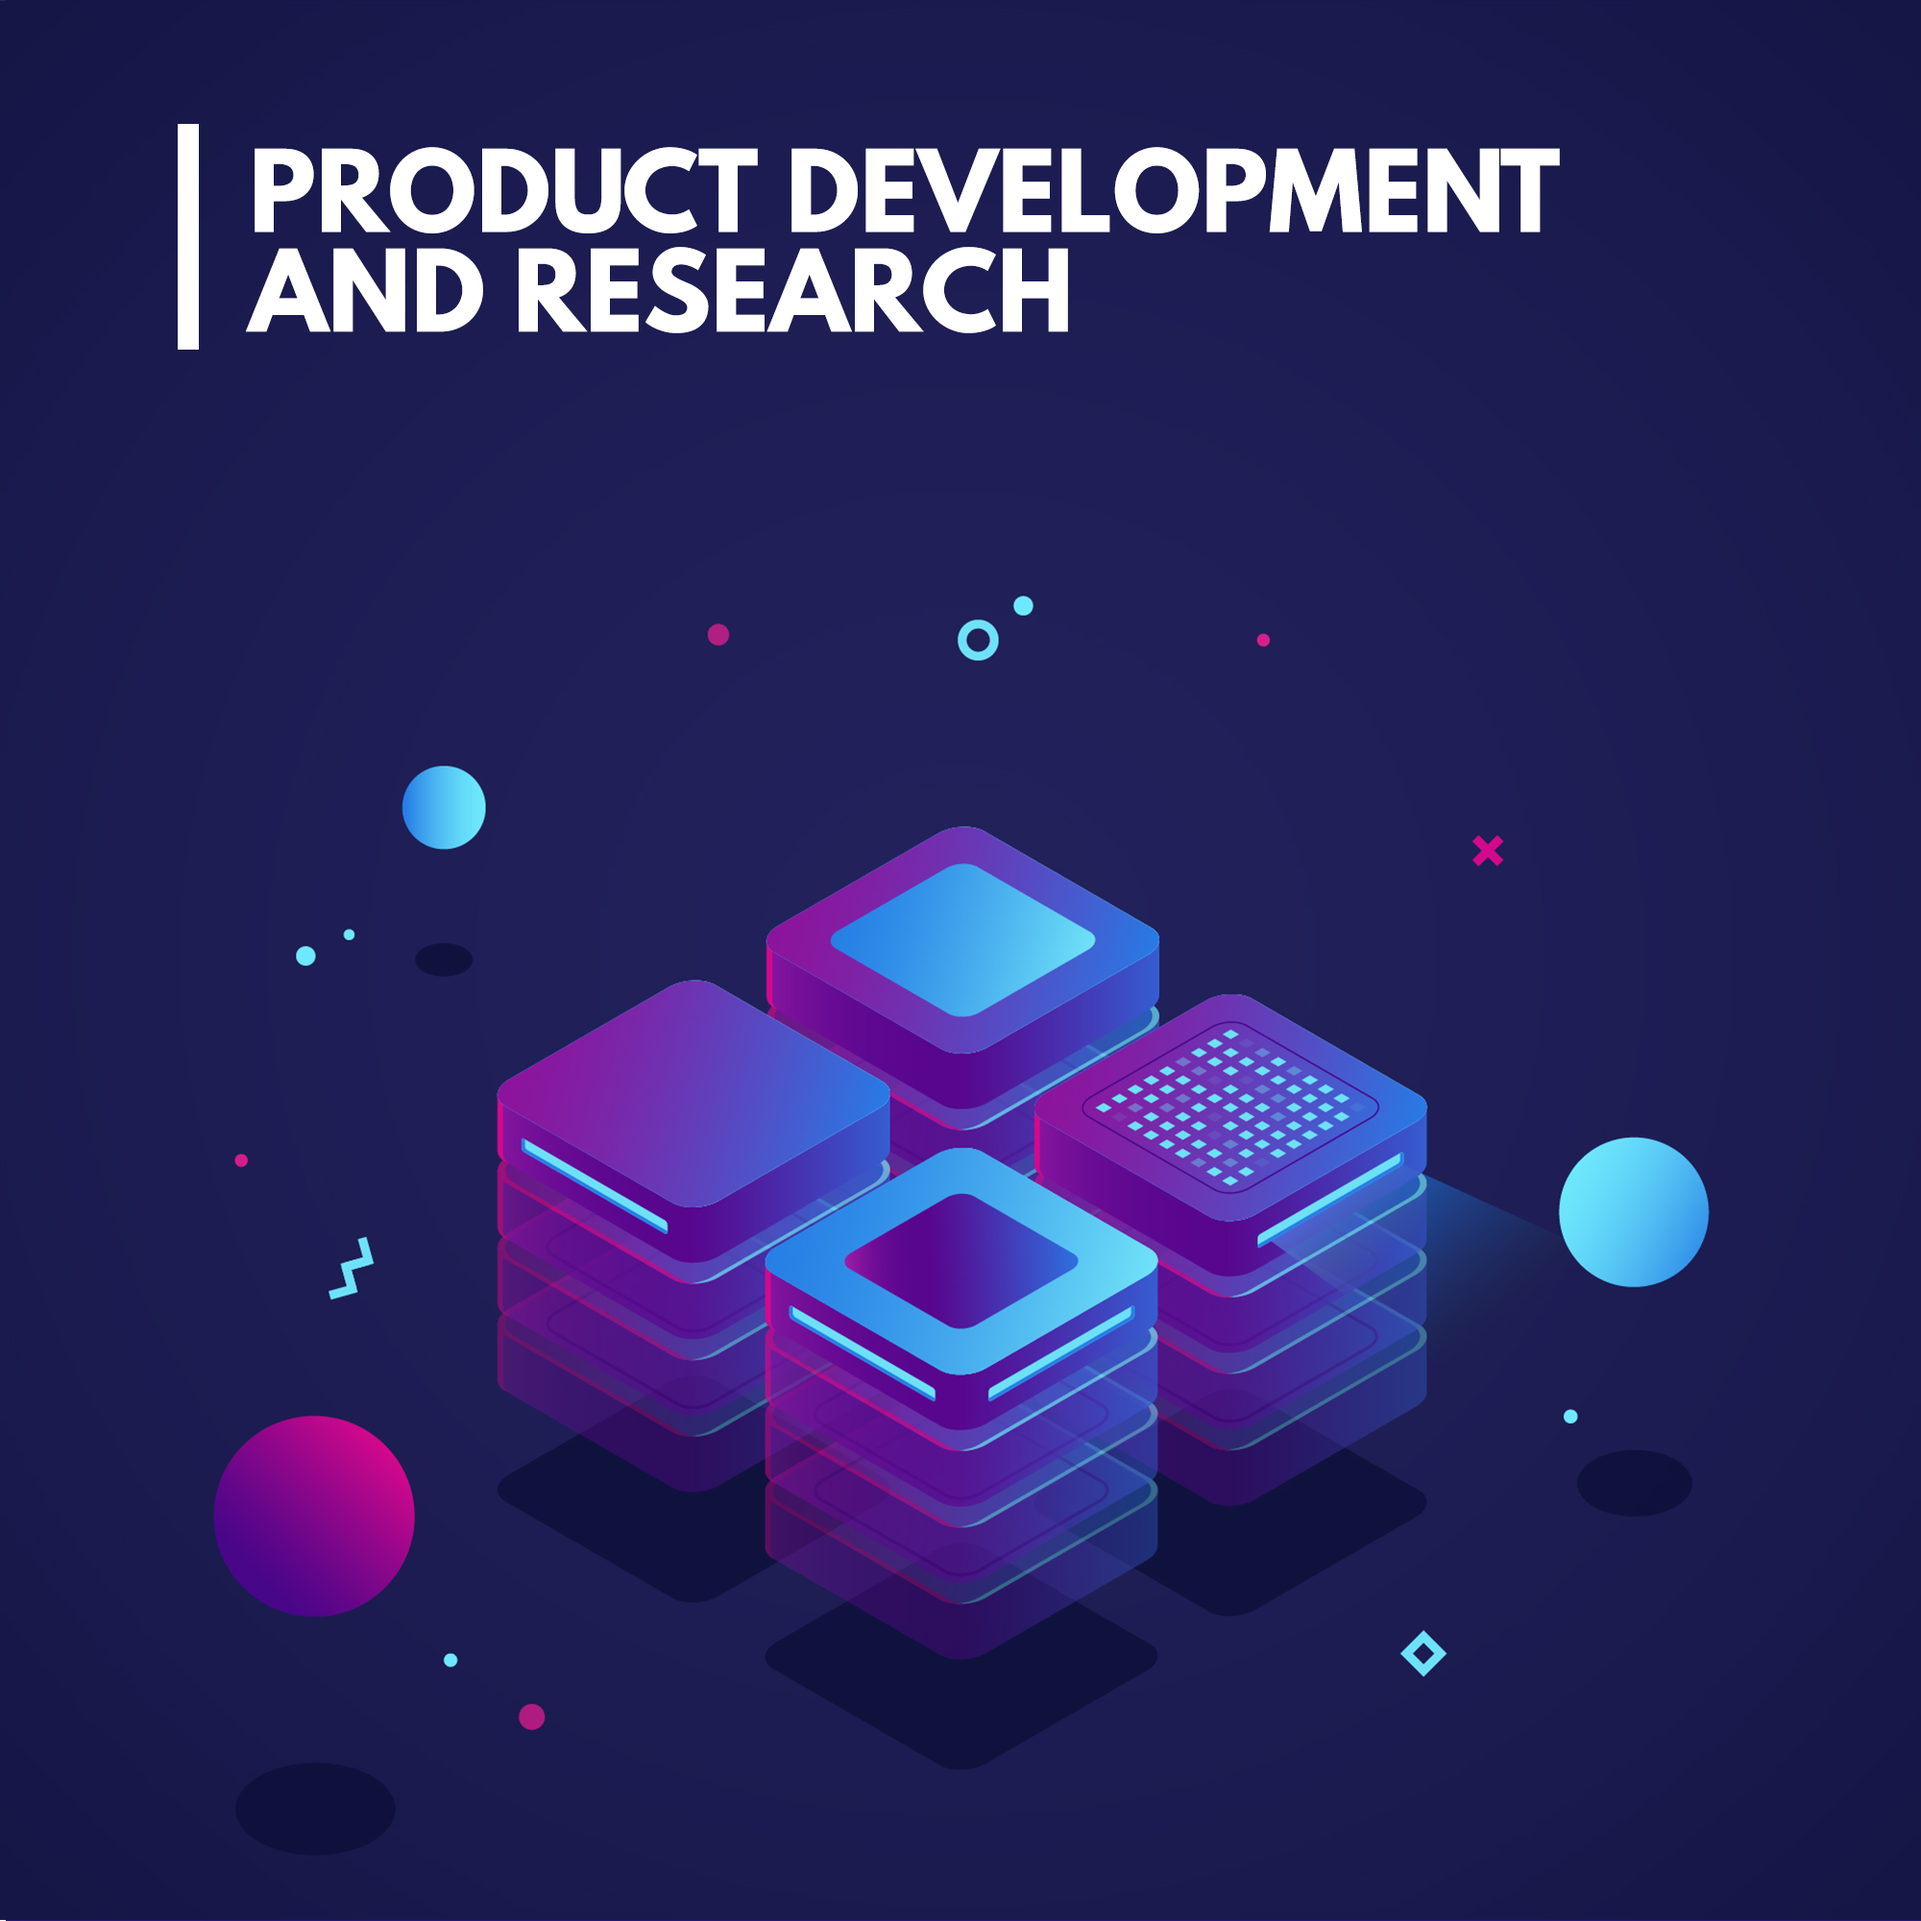
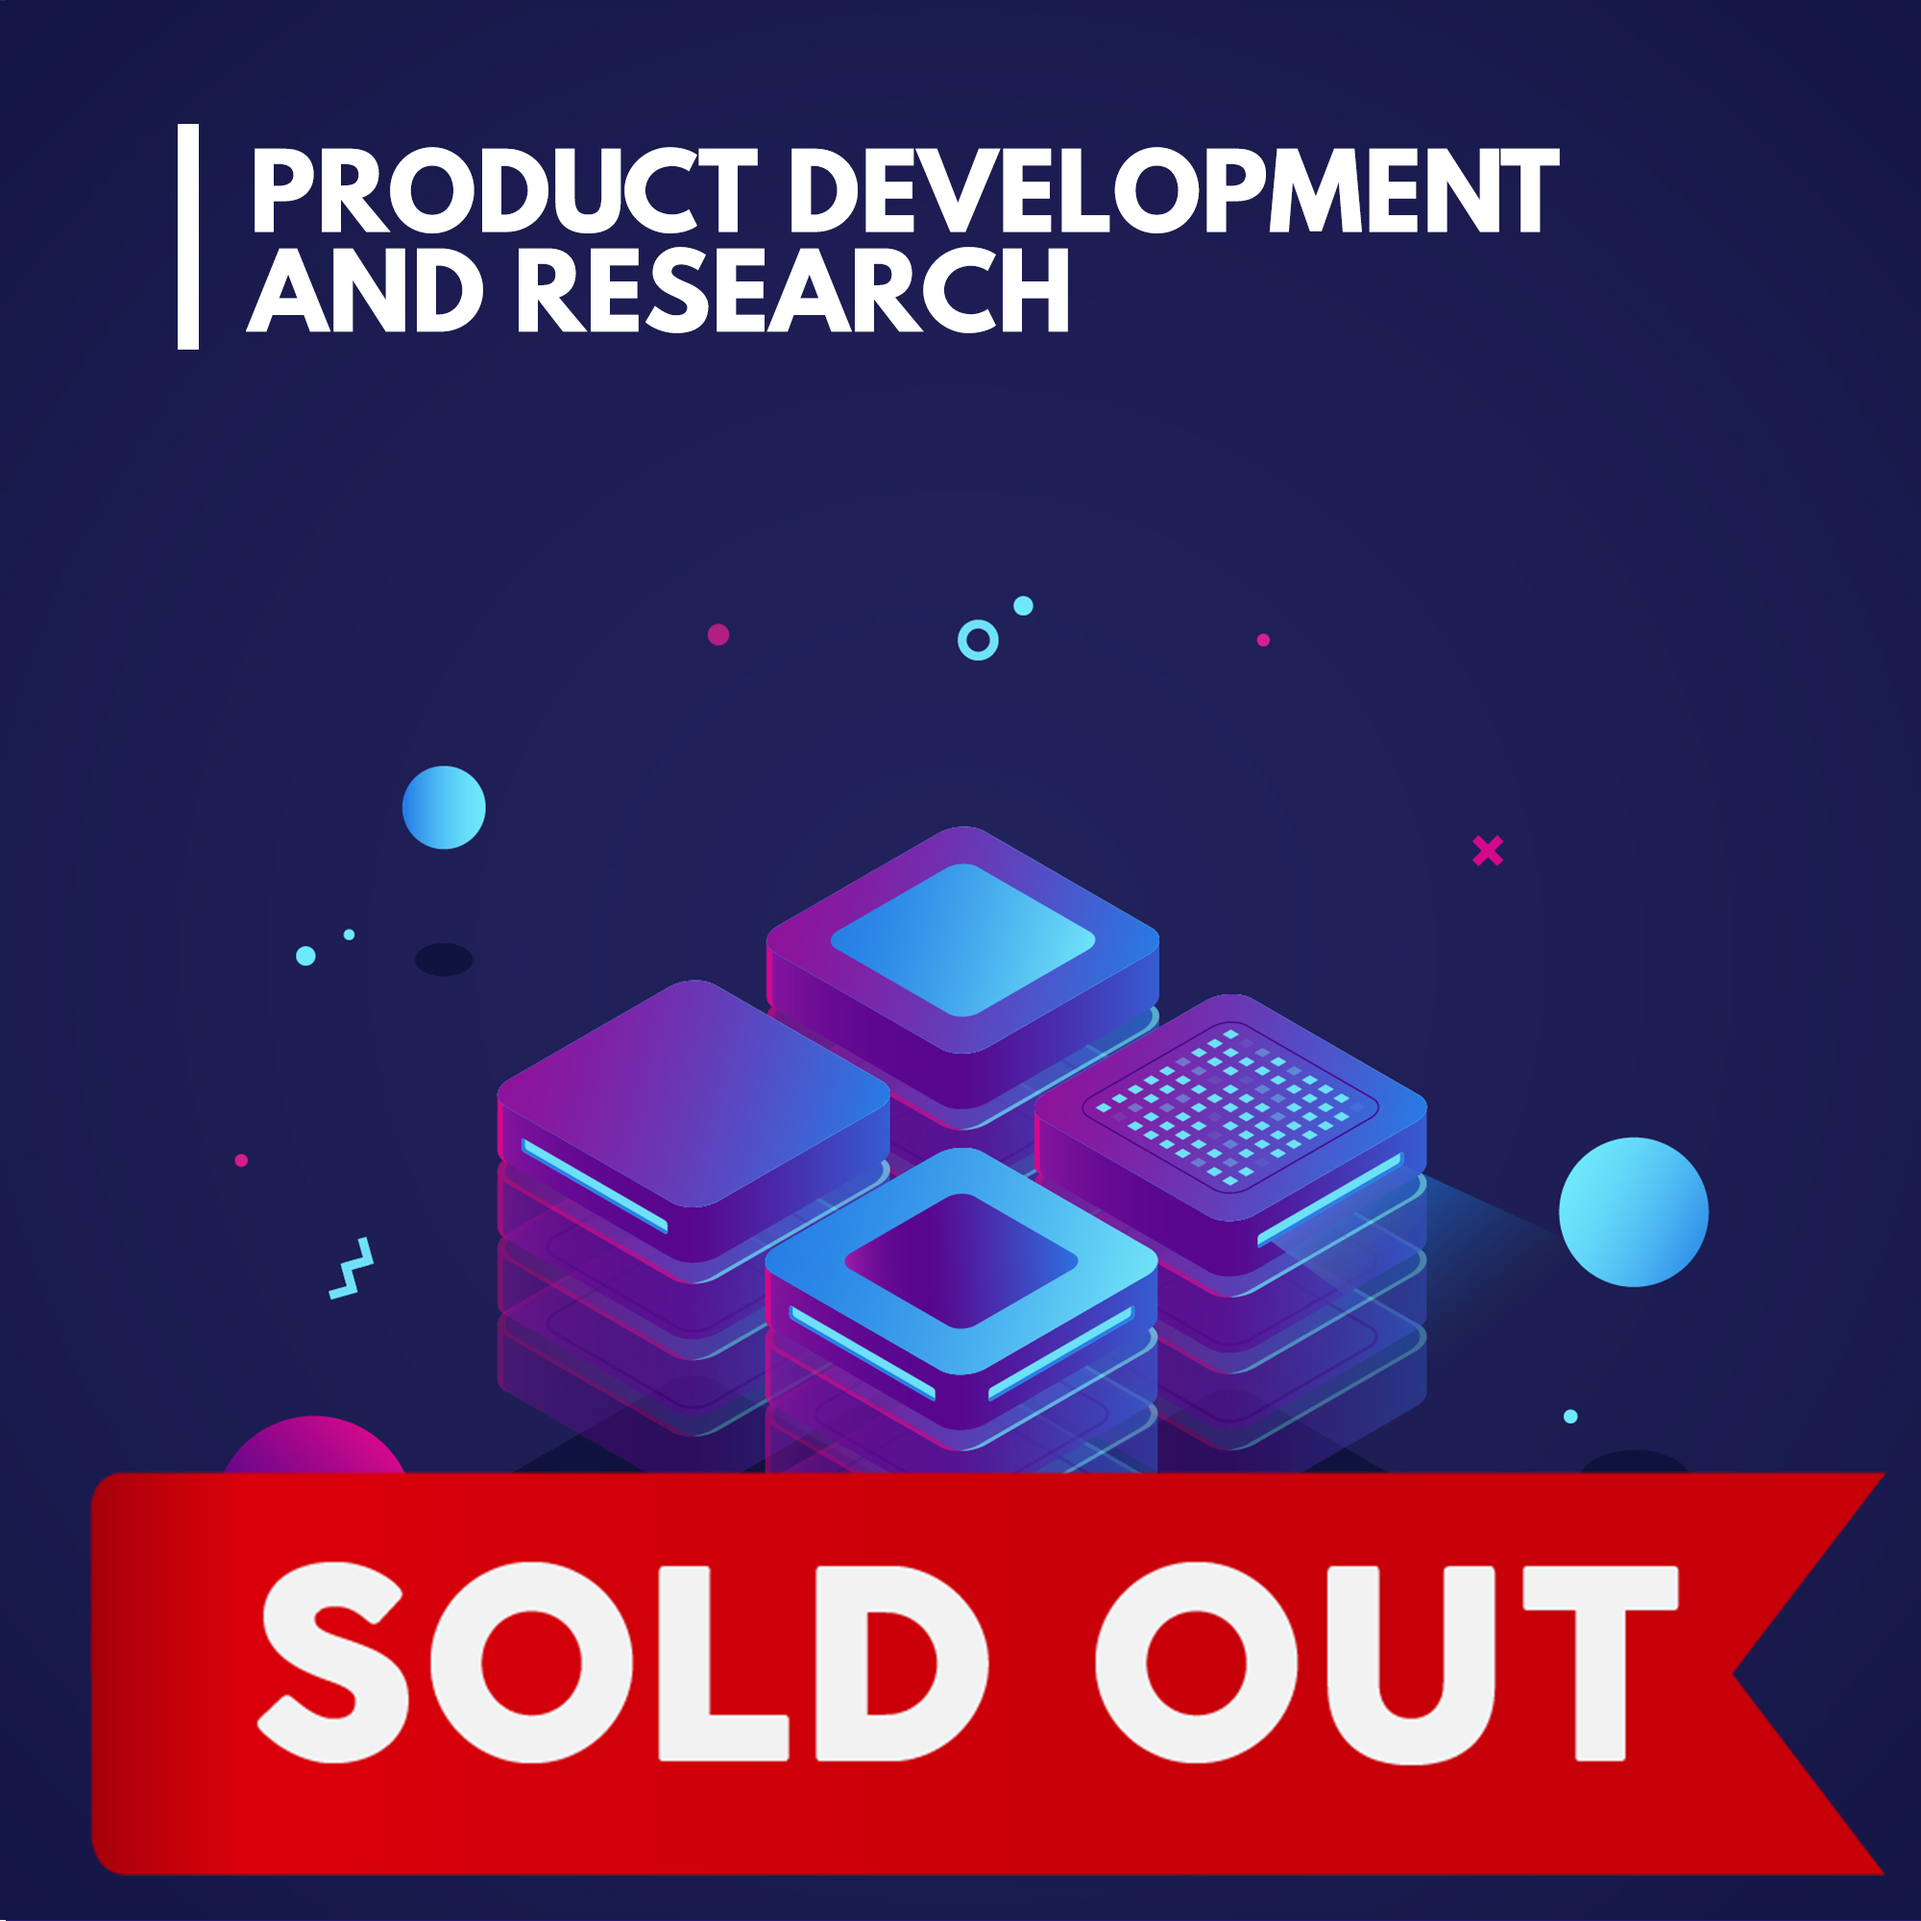
Conten addition

Changed region(s): [[0.031, 0.744, 0.992, 0.992]]

diff --git a/workshop/index.html b/workshop/index.html
@@ -28,6 +28,117 @@
 
 <body class="demo-2">
     <iframe src="../bg/index.html" class="main-frame" frameborder="0"></iframe>
+    <div class="container" id="mini-workshops">
+        <header class="codrops-header">
+            <h1>Mini Workshops</h1>
+        </header>
+        <div class="content">
+            <!-- trianglify pattern container -->
+            <div class="pattern pattern--hidden"></div>
+            <!-- cards -->
+
+            <div class="wrapper">
+                <div class="card" style="width: 20rem" data-toggle="modal" data-target="#exampleModal7">
+                    <div class="card-header card-header-warning" style="padding: 0px;">
+                        <img src="img/w1.jpeg" class="card-img-top" />
+                    </div>
+                    <div class="card-body">
+                        <h4 class="card-title">Sustainable Building Practices using BIM</h4>
+
+                    </div>
+                </div>
+                <div class="modal fade" id="exampleModal7" tabindex="-1" role="dialog" aria-labelledby="exampleModalLabel7" aria-hidden="true">
+                    <div class="modal-dialog" role="document">
+                        <div class="modal-content">
+                            <div class="modal-header">
+                                <h3 class="modal-title" id="exampleModalLabel7"><b>Sustainable Building Practices using BIM</b></h3>
+                                <button type="button" class="close" data-dismiss="modal" aria-label="Close">
+									<span aria-hidden="true">&times;</span>
+								</button>
+                            </div>
+                            <div class="modal-body">
+                                <p class="about_evoke">
+                                    <blockquote class="blockquote">
+                                        <p class="mb-0">Sustainable Development: Holding our world in the trust for our children</p>
+                                        <footer class="blockquote-footer">Micheal Meacher</footer>
+                                    </blockquote>
+                                    <p>
+                                        The best way to predict future is to create it. And the best path to create it is to go sustainable. The world is in need of her saviours, saviours who will create a greener or a more sustainable solution to its problems. Do you intend on being one?
+                                    </p>
+                                    <p>
+                                        <b>Evoke’19</b> brings to you a mini workshop on <b>SUSTAINABLE BUILDING PRACTICES USING BIM</b>. It uses <b>AR &VR technology</b> for realising BIM; It's <b>certified by AUTODESK</b> and also provide a free software kit to all those who attend the miniworkshop.Students do bring laptops if possible.
+                                    </p>
+                                    <br>
+                                    <p>
+                                        <b>
+											DATE: 2nd February 2019<br>
+											TIME: 10 A.M.- 1 P.M.
+										</b>
+                                    </p>
+                                </p>
+                                <br>
+                            </div>
+                            <div class="modal-footer">
+                                <button type="button" class="btn btn-secondary" data-dismiss="modal">Close</button>
+                                <button type="button" class="btn btn-primary" onclick="location.href = 'https://www.townscript.com/widget/evoke19-231103/'">Register</button>&nbsp;
+                            </div>
+                        </div>
+                    </div>
+                </div>
+            </div>
+            
+            <div class="wrapper">
+                <div class="card" style="width: 20rem" data-toggle="modal" data-target="#exampleModal8">
+                    <div class="card-header card-header-warning" style="padding: 0px;">
+                        <img src="img/plumb.jpeg" class="card-img-top" />
+                    </div>
+                    <div class="card-body">
+                        <h4 class="card-title">Mechanical Electrical Plumbing using BIM</h4>
+
+                    </div>
+                </div>
+                <div class="modal fade" id="exampleModal8" tabindex="-1" role="dialog" aria-labelledby="exampleModalLabel" aria-hidden="true">
+                    <div class="modal-dialog" role="document">
+                        <div class="modal-content">
+                            <div class="modal-header">
+                                <h3 class="modal-title" id="exampleModalLabel"><b>Mechanical Electrical Plumbing using BIM</b></h3>
+                                <button type="button" class="close" data-dismiss="modal" aria-label="Close">
+										<span aria-hidden="true">&times;</span>
+									</button>
+                            </div>
+                            <div class="modal-body">
+                                <p class="about_evoke">
+                                    <blockquote class="blockquote">
+                                        <p class="mb-0"> The future depends on what we do in the present.</p>
+                                        <footer class="blockquote-footer">Mahatma Gandhi</footer>
+                                    </blockquote>
+                                    <p>
+                                        Technology is helping to improve decision making and performance across the building and infrastructure lifecycle. Be a part of this amazing journey our world goes through by making the little changes you can and so creating a brighter and better future.
+                                    </p>
+                                    <p>
+                                        <b>Evoke’19</b> presents you with an opportunity to be a part of a mini workshop on <b>MECHANICAL ELECTRICAL PLUMBING USING BIM</b>. The workshop is <b>AUTODESK certified</b>. It doesn’t end there, free software kit will be provided to all those who attend the workshop.Students do bring laptops if possible.
+                                    </p>
+                                    <br>
+                                    <p>
+                                        <b>
+											DATE: 2nd February 2019<br>
+											TIME: 2 P.M.- 5 P.M.
+										</b>
+                                    </p>
+                                </p>
+                                <br>
+                            </div>
+                            <div class="modal-footer">
+                                <button type="button" class="btn btn-secondary" data-dismiss="modal">Close</button>
+                                <button type="button" class="btn btn-primary" onclick="location.href = 'https://www.townscript.com/widget/evoke19-231103/'">Register</button>&nbsp;
+                            </div>
+                        </div>
+                    </div>
+                </div>
+            </div>
+        </div>
+    </div>
+    <hr>
     <div class="container">
         <header class="codrops-header">
             <h1> Workshops</h1>

diff --git a/hackathon/index.html b/hackathon/index.html
@@ -95,7 +95,7 @@
                             </div>
                             <div class="modal-footer">
                                 <button type="button" class="btn btn-secondary" data-dismiss="modal">Close</button>
-                                <button type="button" class="btn btn-primary" onclick="location.href = 'https://www.townscript.com/widget/evoke19-231103/'">Register</button>
+                                <button type="button" class="btn btn-primary" disabled>Sold Out!</button>
                             </div>
                         </div>
                     </div>
